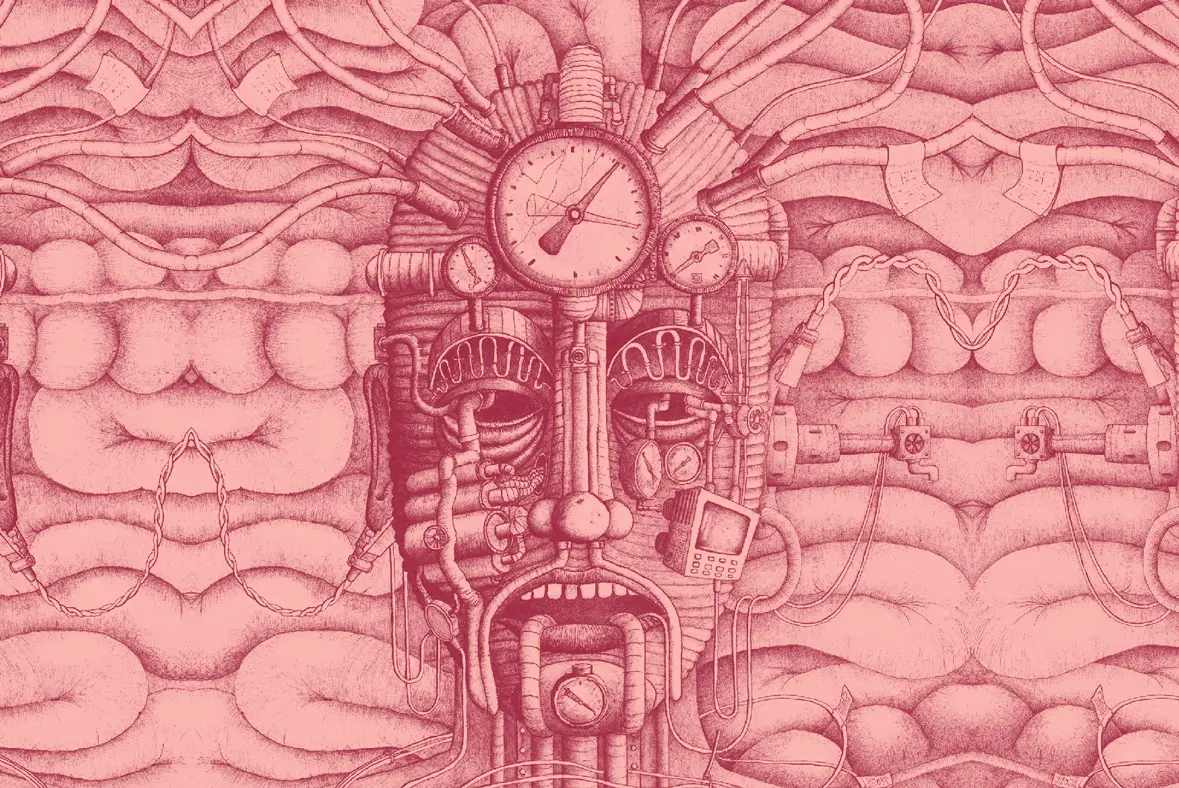
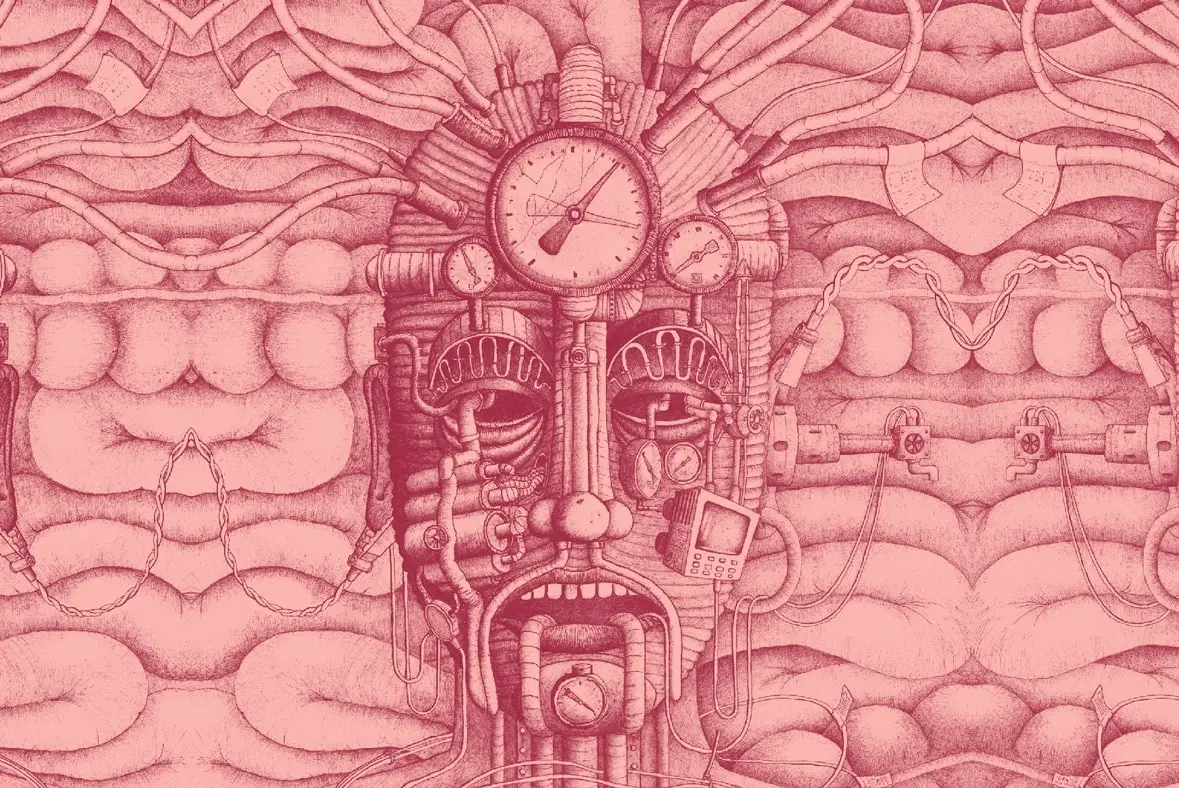
jpg

diff --git a/css/style.css b/css/style.css
@@ -106,7 +106,7 @@ body {
 .main {
   width: 100vw;
   height: 100vh;
-  background: url("../img/DMT_back.png") 15px 0/100% 100% no-repeat;
+  background: url("../img/DMT_back.jpg") 15px 0/100% 100% no-repeat;
   position: relative;
 }
 
